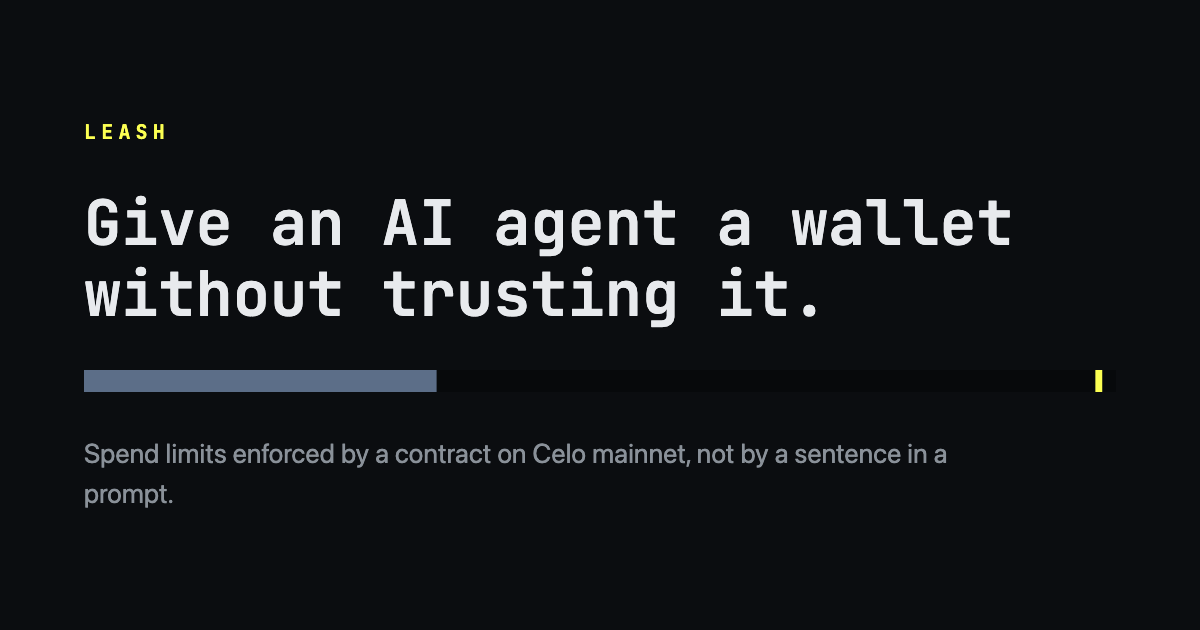
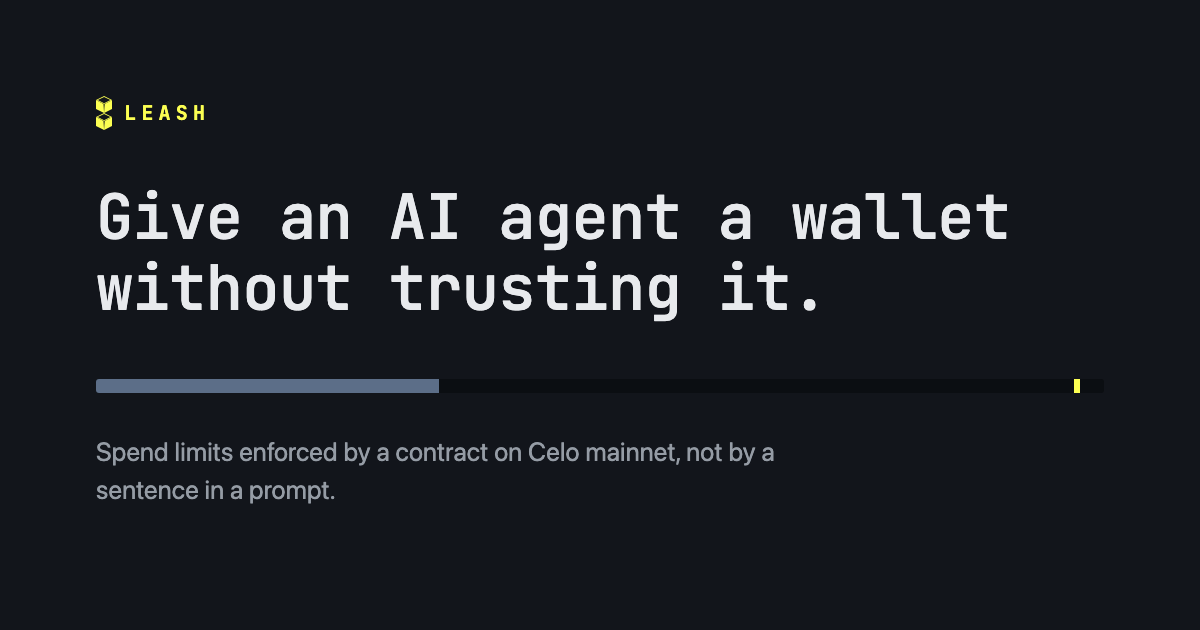
feat(app): the mark the maintainer drew, and the two images that were still in the old palette
§15 said there was no iconography and that a real icon would need a rule about
size, stroke and alignment before one could arrive. One arrived: two cubes,
stacked, meeting at a point. §17 is that rule.

`components/ui/Mark.tsx` draws it as filled geometry in `currentColor`, and
both halves of that are load-bearing. A hex would be a second place where a
colour has to be remembered, and the first place anyone forgets is the bright
band -- the defect fixed in the commit before this one; as `currentColor` the
mark inherits `--bg` from `.on-bright` with everything else. A stroke has a
width that does not scale with the type step the mark is set at, so the
wordmark and a hero would carry two different line weights. The open lids are
a rhombus with a rhombus knocked out of it at `fill-rule="evenodd"`: an
outline made of fill.

The viewBox is 10 x 21, the source drawing's proportion measured at 1:2.12, so
a width follows from a height and never the other way round. At that ratio a
mark set to the step beside it is seven pixels wide and reads as a smudge --
rendered and looked at before the size was settled -- so `BrandLink` sets
twice the label step.

Adopting it found the two surfaces still painted in the pre-lift palette, and
they are the two a reader sees *before the page loads*:

- `app/icon.svg` was a drawing of the meter in #0B0D10 and #07090B. It is the
  mark now, geometry nested so its coordinates stay comparable to Mark.tsx
[…]

diff --git a/app/components/ui/Mark.tsx b/app/components/ui/Mark.tsx
@@ -1,0 +1,60 @@
+/**
+ * The mark: two cubes, stacked, meeting at a point.
+ *
+ * §15 said there was no iconography and that a real icon would need a rule
+ * about size, stroke and alignment before it could arrive. This is that icon,
+ * and §17 is that rule.
+ *
+ * ## What it is drawn from
+ *
+ * Everything here is `currentColor` and nothing is a stroke. A stroke has a
+ * width that does not scale with the type step the mark is set at, so a
+ * wordmark at `--t-label` and a hero at `--t-title` would carry two different
+ * line weights; filled geometry scales exactly. It also means the mark takes
+ * §4's ground rule for free -- on the paused header it inherits `--bg` from
+ * `.on-bright` along with everything else, and there is no second place where
+ * a colour has to be remembered.
+ *
+ * The viewBox is 10 wide and 21 tall, which is the source drawing's
+ * proportion (measured 1:2.12) resolved onto whole units: each cube is a
+ * 10-wide rhombus 5 tall over a 5.5-tall body, and the lower cube's top
+ * vertex is the upper cube's bottom vertex.
+ *
+ * The top faces are open -- an outline rather than a fill -- which is the
+ * whole character of the drawing: a container with its lid off, which is what
+ * this product is. The outline is 0.5 units, 5% of the mark's width, because
+ * at 16px a thinner one disappears into a grey smudge. The seam down the
+ * middle of each cube is a wedge 0.7 wide under the rhombus tapering to
+ * nothing at the bottom vertex, and it is what keeps the two side faces from
+ * reading as one black shape.
+ */
+export default function Mark({
+  size = 'var(--t-label)', className = '', style,
+}: {
+  /** Any CSS length. A type step by default, so the mark rides the scale. */
+  size?: string
+  className?: string
+  style?: React.CSSProperties
+}) {
+  return (
+    <svg
+      viewBox="0 0 10 21"
+      // Height drives it and the width follows from the viewBox, so the mark
+      // is measured the way the type beside it is: by how tall it is.
+      style={{ height: size, width: 'auto', display: 'block', ...style }}
+      className={className}
+      fill="currentColor"
+      aria-hidden="true"
+      focusable="false"
+    >
+      {/* Upper cube: the open lid, then the two faces under it. */}
+      <path fillRule="evenodd" d="M5 0 10 2.5 5 5 0 2.5Z M5 0.56 8.88 2.5 5 4.44 1.12 2.5Z" />
+      <path d="M0 2.5 4.65 5 5 10.5 0 8Z" />
+      <path d="M10 2.5 5.35 5 5 10.5 10 8Z" />
+      {/* Lower cube: the same, dropped by one cube. */}
+      <path fillRule="evenodd" d="M5 10.5 10 13 5 15.5 0 13Z M5 11.06 8.88 13 5 14.94 1.12 13Z" />
+      <path d="M0 13 4.65 15.5 5 21 0 18.5Z" />
+      <path d="M10 13 5.35 15.5 5 21 10 18.5Z" />
+    </svg>
+  )
+}

diff --git a/app/test/tokens.test.ts b/app/test/tokens.test.ts
@@ -191,6 +191,30 @@ describe('the field treatment', () => {
   })
 })
 
+/**
+ * The favicon is a standalone file: no CSS custom property reaches it, so its
+ * colours are a copy of the palette. Copies drift, and this one had -- after
+ * §4 lifted the grounds it still painted #0B0D10 and #07090B, so the image a
+ * reader sees before the page loads was the last surface in the old palette.
+ *
+ * §17. The OG image is a raster and cannot be checked this way; it is
+ * generated by scripts/og.mjs, which reads globals.css instead of copying it.
+ */
+describe('the favicon is painted in this palette', () => {
+  const icon = readFileSync(new URL('../app/icon.svg', import.meta.url), 'utf8')
+  const known = new Set(Object.values(PALETTE).map((hex) => hex.toUpperCase()))
+
+  it('uses no colour the palette does not have', () => {
+    // Comments stripped first: the file's own note names the two hexes it
+    // used to carry, and a rule that cannot be written down beside the code
+    // it governs is the one that gets forgotten again.
+    const drawn = icon.replace(/<!--[\s\S]*?-->/g, '')
+    const used = [...drawn.matchAll(/#[0-9A-Fa-f]{6}/g)].map((m) => m[0].toUpperCase())
+    expect(used.length).toBeGreaterThan(0)
+    expect(used.filter((hex) => !known.has(hex))).toEqual([])
+  })
+})
+
 describe('globals.css does not drift from tokens.ts', () => {
   const cssVar: Record<keyof typeof PALETTE, string> = {
     bg: '--bg', panel: '--panel', well: '--well', text: '--text',

diff --git a/app/e2e/landing.spec.ts b/app/e2e/landing.spec.ts
@@ -200,3 +200,29 @@ test('a control answers the pointer resting on it', async ({ page }) => {
   await page.mouse.move(0, 0)
   await expect.poll(border).toBe('rgb(123, 131, 142)')
 })
+
+/**
+ * §17: the mark takes its colour from whatever it sits in. A unit test can
+ * prove `Mark.tsx` writes `currentColor` and no hex; only the browser proves
+ * the cascade delivered it — and that the drawing is not a seven-pixel smudge
+ * at the step it was set to, which is what it was before its height doubled.
+ */
+test('the brand mark is drawn in the colour of the brand', async ({ page }) => {
+  await page.goto('/')
+  const brand = page.getByRole('navigation', { name: 'Primary' }).getByLabel('Leash home')
+  await expect(brand).toBeVisible()
+
+  const mark = await brand.locator('svg').evaluate((el) => {
+    const cs = getComputedStyle(el)
+    const box = el.getBoundingClientRect()
+    return { fill: cs.fill, colour: getComputedStyle(el.parentElement as Element).color,
+             height: Math.round(box.height), width: Math.round(box.width) }
+  })
+
+  // --celo, and the same value the wordmark beside it is set in.
+  expect(mark.fill).toBe(mark.colour)
+  expect(mark.fill).toBe('rgb(252, 255, 82)')
+  // Twice the label step, and a width that follows from the 10:21 viewBox.
+  expect(mark.height).toBeGreaterThanOrEqual(20)
+  expect(mark.width).toBeGreaterThanOrEqual(9)
+})

diff --git a/app/test/surface.test.ts b/app/test/surface.test.ts
@@ -288,6 +288,34 @@ describe('the bright band', () => {
 })
 
 /**
+ * §17: the mark is filled geometry in `currentColor` and carries no stroke.
+ *
+ * Both halves are load-bearing. A hex here would be a second place where a
+ * colour has to be remembered, and the first place anyone forgets is the
+ * bright band -- the defect §4 was just fixed for. A stroke has a width that
+ * does not scale with the type step the mark is set at, so the wordmark and a
+ * hero would carry two different line weights.
+ */
+describe('the mark', () => {
+  const mark = readFileSync(join(ROOT, 'components/ui/Mark.tsx'), 'utf8')
+
+  it('takes its colour from whatever it sits in', () => {
+    expect(mark).toContain('fill="currentColor"')
+    expect(mark.match(/#[0-9A-Fa-f]{3,8}/g)).toBeNull()
+  })
+
+  it('is drawn in fill, not in stroke', () => {
+    expect(mark).not.toMatch(/stroke[-A-Za-z]*[=:]/)
+  })
+
+  /** Height, not width: the mark is measured the way the type beside it is. */
+  it('is set by its height', () => {
+    expect(mark).toContain("height: size")
+    expect(mark).toContain("width: 'auto'")
+  })
+})
+
+/**
  * §13: this app has no layer above the page, and that is a decision rather
  * than an omission. Depth is a change of ground (--well < --bg < --panel), so
  * a soft grey shadow would be both invisible on #0B0D10 and the one ornament

diff --git a/app/components/ui/BrandLink.tsx b/app/components/ui/BrandLink.tsx
@@ -1,4 +1,5 @@
 import Link from 'next/link'
+import Mark from './Mark'
 
 /** The brand is always an escape route, including from public account links. */
 export default function BrandLink({
@@ -22,7 +23,7 @@ export default function BrandLink({
       // the wizard was checked, where `large` was hiding it. Moving the four
       // headers onto AppHeader made the brand one size everywhere and the
       // test finally saw it.
-      className="focus-ring inline-flex items-center min-h-[44px]"
+      className="motion-press focus-ring inline-flex items-center gap-2 min-h-[44px]"
       style={{
         // A mark laid over text, not a box: the wordmark has no inside. §10.
         borderRadius: 'var(--r-mark)',
@@ -35,6 +36,11 @@ export default function BrandLink({
         outlineColor: onBright ? 'var(--bg)' : 'var(--celo)',
       }}
     >
+      {/* The mark is 1:2.1 -- tall and narrow -- so sized at the type step
+          beside it, it would be seven pixels wide and read as a smudge. §17:
+          a mark is set by its height against the cap height of the type it
+          sits with, and this one needs twice the step to carry. */}
+      <Mark size={large ? 'calc(var(--t-title) * 1.6)' : 'calc(var(--t-label) * 2)'} />
       LEASH
     </Link>
   )

diff --git a/docs/design-system.md b/docs/design-system.md
@@ -1062,9 +1062,9 @@ recorded in the ratchet rather than punch a hole in the rule.
 - **Density.** One size of everything, on every screen. A dashboard watched on
   a phone and one watched on a desk may not want the same `Panel` padding, and
   nobody has measured whether that matters here.
-- **Iconography.** There is none, deliberately — `↗` and `✓` are text. If a
-  real icon ever arrives it needs a rule about size, stroke and alignment to
-  the type scale, and none exists.
+- **A second icon.** §17 settles the mark. It does not settle an icon *set*:
+  the first interface icon that arrives will need a rule about what may be
+  drawn at all, and `↗` and `✓` are still text until then.
 
 ---
 
@@ -1153,3 +1153,57 @@ had never been given one. `PROSE` carries `maxWidth: '68ch'` itself now, and
 `overflowWrap: 'break-word'` with it, because prose here can name a 42-
 character address that has nowhere to break and did push the document sideways
 at 375px.
+
+---
+
+## 17. The mark: the one drawing this interface has
+
+§15 said there was no iconography and that a real icon would need a rule about
+size, stroke and alignment before it could arrive. One arrived on 2026-09-11 —
+two cubes, stacked, meeting at a point, drawn by the maintainer — so this is
+that rule. It governs *the mark*. An icon set is still undecided (§15).
+
+### The rule
+
+> **The mark is filled geometry in `currentColor`, set by its height against
+> the type it sits with, and it carries no stroke.**
+
+- **`currentColor`, never a hex.** The mark then takes §4's ground rule for
+  free: inside `.on-bright` it inherits `--bg` along with everything else in
+  the band, and there is no second place where a colour has to be remembered.
+  `test/surface.test.ts` fails on a hex in `components/ui/Mark.tsx`.
+- **No stroke.** A stroke has a width that does not scale with the type step
+  the mark is set at, so a wordmark at `--t-label` and a hero at `--t-title`
+  would carry two different line weights. Filled geometry scales exactly. The
+  open lids are drawn as a rhombus with a rhombus knocked out of it, at
+  `fill-rule="evenodd"` — an outline made of fill.
+- **Height, not width.** The mark is measured the way the type beside it is.
+  Its viewBox is 10 × 21, so a width follows from a height and never the
+  other way round.
+- **It needs about twice the step it sits with.** At 1:2.1 a mark set to the
+  cap height of `--t-label` is seven pixels wide and reads as a smudge —
+  measured at 375px before the size was doubled. `BrandLink` sets
+  `calc(var(--t-label) * 2)`, and `calc(var(--t-title) * 1.6)` where the
+  wordmark is large.
+
+### The raster copies, and how they stay in step
+
+A favicon and an Open Graph image are standalone files with no access to a CSS
+custom property, so each is a copy of the palette — which is exactly how both
+came to be wrong. After §4 lifted the grounds, `app/icon.svg` still painted
+`#0B0D10` and `opengraph-image.png` still showed the old near-black with no
+mark on it: the two images a reader sees *before the page loads* were the last
+two surfaces still in the old palette.
+
+- `app/icon.svg` holds the mark's geometry in a nested viewBox, so the inner
+  coordinates stay comparable to `Mark.tsx` line for line, and
+  `test/tokens.test.ts` fails on any hex in it that is not in the palette.
+- `app/opengraph-image.png` is generated by `app/scripts/og.mjs`, which reads
+  its colours out of `globals.css` rather than keeping a third copy. Re-run
+  `node scripts/og.mjs` after a change to the palette, the mark or the
+  headline.
+- `app/apple-icon.png` is the source artwork, cropped: a home-screen icon is
+  the one place the mark keeps the ground it was drawn on rather than the
+  app's.
+
+---
